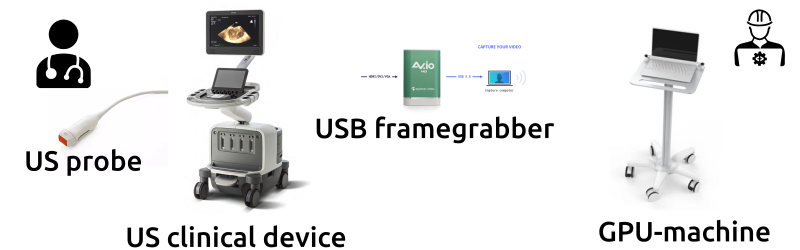
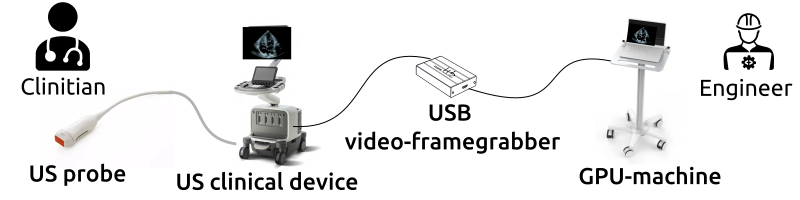
udpates figure/rt-ai-system and systems/READMEs (#39)

diff --git a/docs/system/README.md b/docs/system/README.md
@@ -3,26 +3,8 @@
 ![fig](../../figures/rt-ai-system.png)
 _**Fig 1.** Real-time AI-empowered clinical system._
 
-## GE Venue Go with software_version: 'R2'
-> A simple, fast and precise ultrasound for every moment, GE Healthcare’s Venue Go™ point of care ultrasound is designed to simplify the complex [:links:](https://www.gehealthcare.co.uk/products/ultrasound/point-of-care-ultrasound/venuego).
-
-* Display shows depth scale with focus marker, also used as depth and focal position gesture controller.
-
-## GE Probe 3SC-RS
-``` 
-Model: 3Sc-RS
-Type: Phased Array
-Specialism: Cardiology, Renal, Transcranial, Pediatric, Fetal
-Mode: 2D-Mode; M-Mode; Color Flow; CW Doppler; PW Doppler
-Frequency:  1.1 – 4.7 MHz
-Footprint: 18.4 x 23.7 mm
-FOV: 120 degrees
-```
-The mark in the probe is used to identify the side of the probe corresponding to the side of the image having the orientation mark on the display.
-The orientation marker on display match the orientation marker on the probe (Usually 'GE Venue' in green or yellow colour).
-
-
-## EPIQ 7: Ultrasound system for cardiology  
+## Ultrasound Clinical Devices
+### EPIQ 7: Ultrasound system for cardiology  
 * Serial number and software version 
 ```
 Serial Number: US714B0455
@@ -54,7 +36,7 @@ References:
 https://www.philips.com/consumerfiles/newscenter/gb_en/standard/resources/pdf/Inside-Innovation-Backgrounder-EPIQ.pdf
 https://www.usa.philips.com/healthcare/product/HC795200C/epiq-7-ultrasound-system-for-cardiology#documents    
 
-## X5-1: xMATRIX array transducer with PureWave crystal technology
+### X5-1: xMATRIX array transducer with PureWave crystal technology
 * Serial number and software version 
 ```
 453561457413
@@ -80,7 +62,27 @@ Physical dimensions: 9.2 x 3.9 x 2.9 cm (3.6 x1.5 x 1.1 in) LWD
 References:   
 https://www.philips.co.uk/healthcare/product/HC989605400801/x5-1
 
-## USB framegrabber 
+### GE Venue Go with software_version: 'R2'
+> A simple, fast and precise ultrasound for every moment, GE Healthcare’s Venue Go™ point of care ultrasound is designed to simplify the complex [:links:](https://www.gehealthcare.co.uk/products/ultrasound/point-of-care-ultrasound/venuego).
+
+* Display shows depth scale with focus marker, also used as depth and focal position gesture controller.
+
+### GE Probe 3SC-RS
+``` 
+Model: 3Sc-RS
+Type: Phased Array
+Specialism: Cardiology, Renal, Transcranial, Pediatric, Fetal
+Mode: 2D-Mode; M-Mode; Color Flow; CW Doppler; PW Doppler
+Frequency:  1.1 – 4.7 MHz
+Footprint: 18.4 x 23.7 mm
+FOV: 120 degrees
+```
+The mark in the probe is used to identify the side of the probe corresponding to the side of the image having the orientation mark on the display.
+The orientation marker on display match the orientation marker on the probe (Usually 'GE Venue' in green or yellow colour).
+
+
+
+## USB video framegrabber 
 
 ### MiraBox Video Capture 
 >  【HDMI USB3.0 Capture with Strong compatibility】The 1080P HDMi Capture Card Support for all 1080P 720P HDMI device, such as Wii U, PS4, PS3, Xbox One, Xbox 360, Wii, Switch, DVD, camera,Mobile phone(Apple iphone,Huawei), ZOSI security camera, DSLR and set top box etc. It is compatible with Linux, Mac OS, windows 7/8/10, very easy to setup, there is Plug and Play,No Need to Install Driver.  
@@ -97,8 +99,9 @@ HDMI Input Formats 	480i,480p,576i,576p,720p50,720p60,1080i50,1080i60,1080p24/25
 Software Compatibility 	Windows Media Encoder (Windows), Adobe Flash Media Live Encoder (Windows), Real Producer Plus (Windows), VLC (Windows, Linux),Wirecast (Windows), Potplayer(Windows)and etc. 
 ``` 
 
-References:  
-https://miraboxbuy.com/collections/new-arrivals/products/hsv3211-video-capture-card 
+References:
+* Manufacturer: https://miraboxbuy.com/collections/new-arrivals/products/hsv3211-video-capture-card 
+* Manual: http://video.hotspotek.com.cn/hsv-3211.html
 
 ### epiphan avio-hd
 > The plug-and-play Epiphan AV.io HD™ capture card is as rugged as it is easy to use. Just connect your HDMI, DVI, or VGA video source to your AV.io HD, and your AV.io HD to your computer via USB. Windows, Mac, and Linux operating systems will auto-detect the AV.io HD capture card – no driver installation required.
